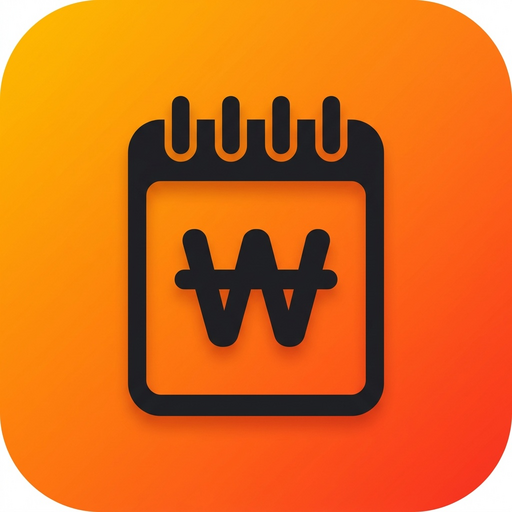
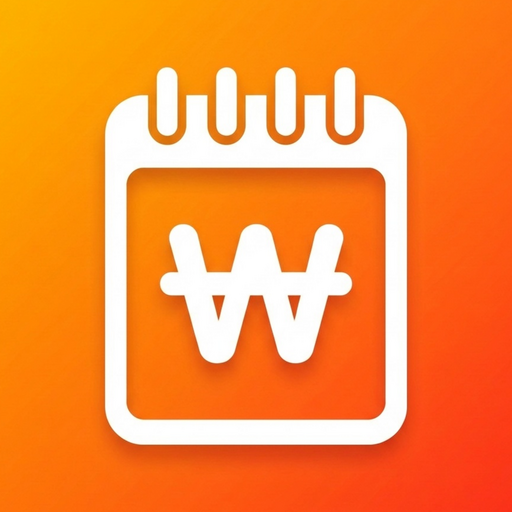
로고/파비콘 흰색 풀블리드 버전으로 교체(사이드 흰여백 제거), 하단 고정 배너 도크(전 화면), 내역 합계바 밑 여백+종류별 추가버튼(모은돈 한번에 입력), 상세 '홈으로 가기' 버튼, 전체 간격 정리

diff --git a/src/screens/DetailScreen.tsx b/src/screens/DetailScreen.tsx
@@ -161,7 +161,7 @@ export function DetailScreen({ id, onToast }: Props) {
         )}
       </div>
 
-      {/* 수정/삭제 */}
+      {/* 홈으로 + 수정/삭제 */}
       <div className="fixed-bottom">
         {confirmDelete ? (
           <div className="row-btns">
@@ -176,20 +176,29 @@ export function DetailScreen({ id, onToast }: Props) {
             </button>
           </div>
         ) : (
-          <div className="row-btns">
+          <>
             <button
-              className="btn btn-danger"
-              onClick={() => setConfirmDelete(true)}
+              className="btn btn-primary btn-block"
+              style={{ marginBottom: 10 }}
+              onClick={() => navigate({ name: "home" })}
             >
-              삭제
+              🏠 홈으로 가기
             </button>
-            <button
-              className="btn btn-navy"
-              onClick={() => navigate({ name: "edit", id: record.id })}
-            >
-              수정
-            </button>
-          </div>
+            <div className="row-btns">
+              <button
+                className="btn btn-danger"
+                onClick={() => setConfirmDelete(true)}
+              >
+                삭제
+              </button>
+              <button
+                className="btn btn-navy"
+                onClick={() => navigate({ name: "edit", id: record.id })}
+              >
+                수정
+              </button>
+            </div>
+          </>
         )}
       </div>
 

diff --git a/src/screens/ListScreen.tsx b/src/screens/ListScreen.tsx
@@ -5,7 +5,6 @@ import type { Category, Record } from "../types";
 import { CATEGORY_LABEL } from "../types";
 import { formatMoney } from "../utils";
 import { RecordItem } from "../components/RecordItem";
-import { AdBanner } from "../components/AdBanner";
 
 type Filter = "all" | Category;
 
@@ -16,6 +15,10 @@ const FILTERS: [Filter, string][] = [
   ["gift", CATEGORY_LABEL.gift],
   ["saving", CATEGORY_LABEL.saving],
 ];
+
+function labelOf(f: Filter): string {
+  return f === "all" ? "기록" : CATEGORY_LABEL[f];
+}
 
 interface ListProps {
   initialFilter?: Category;
@@ -95,8 +98,22 @@ export function ListScreen({ initialFilter }: ListProps) {
           </div>
         </div>
 
-        {/* 배너 */}
-        <AdBanner />
+        {/* 이 종류로 바로 추가 (예: 저축·투자 필터에서 모은 돈 한번에 입력) */}
+        <button
+          className="btn btn-primary btn-block add-in-list"
+          onClick={() =>
+            navigate({
+              name: "add",
+              category: filter === "all" ? undefined : filter,
+            })
+          }
+        >
+          {filter === "saving"
+            ? "＋ 모은 돈 추가하기"
+            : filter === "all"
+              ? "＋ 기록 추가하기"
+              : `＋ ${labelOf(filter)} 추가하기`}
+        </button>
 
         {/* 목록 */}
         <div className="home-list">

diff --git a/src/App.css b/src/App.css
@@ -43,7 +43,7 @@
 
 .page-body {
   flex: 1;
-  padding: 0 20px;
+  padding: 4px 20px 28px; /* 상하단 일정한 공백 */
 }
 
 .home-header {
@@ -964,11 +964,32 @@ textarea.text-input {
   margin: 14px 0;
 }
 
+/* ===== 하단 고정 도크 (배너 + 탭바) ===== */
+.bottom-dock {
+  flex-shrink: 0;
+  background: #fff;
+  border-top: 1px solid var(--line);
+}
+.bottom-dock .ad-banner {
+  margin: 0;
+  min-height: 0;
+  padding: 6px 0;
+}
+/* 도크 안 배너는 실제 광고 있을 때만 위 구분선 */
+.bottom-dock .ad-banner:not(:empty) {
+  border-bottom: 1px solid var(--line);
+}
+/* 도크 안의 탭바는 자체 상단선 제거(도크가 이미 가짐) */
+.bottom-dock nav {
+  border-top: none !important;
+}
+
 /* ===== 내역 화면 합계 (라벨형 3분할) ===== */
 .list-summary2 {
   display: flex;
   gap: 8px;
   margin-top: 14px;
+  margin-bottom: 18px; /* 아래 목록과 붙지 않게 여백 */
 }
 .list-summary2 .ls2-item {
   flex: 1;
@@ -996,6 +1017,11 @@ textarea.text-input {
 }
 .list-summary2 .ls2-v.received {
   color: var(--received);
+}
+
+/* 내역: 이 종류로 바로 추가 버튼 */
+.add-in-list {
+  margin-bottom: 18px;
 }
 
 /* ===== (구) 내역 화면 합계 바 ===== */

diff --git a/src/screens/HomeScreen.tsx b/src/screens/HomeScreen.tsx
@@ -5,7 +5,6 @@ import type { InvestType, Record } from "../types";
 import { INVEST_TYPE_EMOJI, INVEST_TYPE_LABEL } from "../types";
 import { formatMoney, todayISO } from "../utils";
 import { RecordItem } from "../components/RecordItem";
-import { AdBanner } from "../components/AdBanner";
 
 type Mode = "month" | "year";
 
@@ -272,9 +271,6 @@ export function HomeScreen() {
           </div>
         )}
 
-        {/* 배너 광고 */}
-        <AdBanner />
-
         {/* 기록 목록 or 초보자 안내 */}
         <div className="home-list">
           {hasRecords ? (
@@ -291,11 +287,11 @@ export function HomeScreen() {
             </div>
           )}
         </div>
-      </div>
 
-      <div className="fixed-bottom">
+        {/* 기록 추가하기 (스크롤 콘텐츠 내부) */}
         <button
           className="btn btn-primary btn-block btn-lg"
+          style={{ marginTop: 16 }}
           onClick={() => navigate({ name: "add" })}
         >
           기록 추가하기

diff --git a/src/App.tsx b/src/App.tsx
@@ -17,6 +17,7 @@ import { ExportScreen } from "./screens/ExportScreen";
 import { SettingsScreen } from "./screens/SettingsScreen";
 import { LegalScreen } from "./screens/LegalScreen";
 import { BottomNav } from "./components/BottomNav";
+import { AdBanner } from "./components/AdBanner";
 import { Toast } from "./components/Toast";
 
 // 최초 진입 라우트 세팅 + 최초 실행 시각 기록(24시간 유예용)
@@ -65,7 +66,12 @@ export default function App() {
   return (
     <div className="app">
       {renderScreen()}
-      {showTab && <BottomNav current={route.name} />}
+      {showTab && (
+        <div className="bottom-dock">
+          <AdBanner />
+          <BottomNav current={route.name} />
+        </div>
+      )}
       {toast && <Toast message={toast} onDone={() => setToast(null)} />}
     </div>
   );

diff --git a/index.html b/index.html
@@ -3,7 +3,8 @@
   <head>
     <meta charset="UTF-8" />
     <meta name="viewport" content="width=device-width, initial-scale=1.0, viewport-fit=cover" />
-    <link rel="icon" type="image/png" href="/app_icon.png" />
+    <link rel="icon" type="image/png" sizes="64x64" href="/favicon.png" />
+    <link rel="icon" type="image/png" sizes="512x512" href="/app_icon.png" />
     <link rel="apple-touch-icon" href="/app_icon.png" />
     <meta name="theme-color" content="#FF6F0F" />
     <!-- 세련된 한글 글꼴: Pretendard -->
